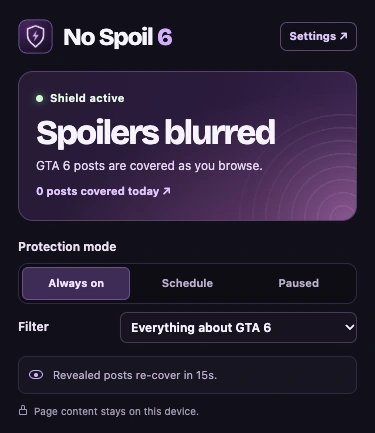
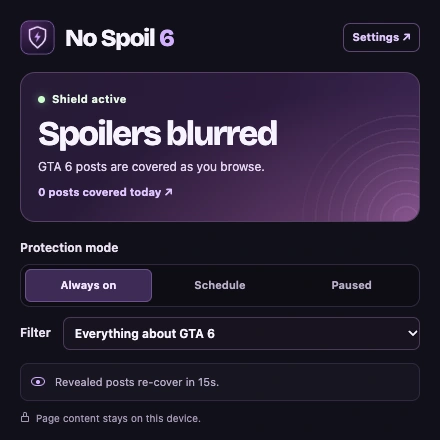
Fix narrow browser toolbar popup

diff --git a/extension/popup/popup.css b/extension/popup/popup.css
@@ -19,12 +19,17 @@
   --line: #30283e;
   --surface: #181522;
   --accent: #d2afff;
+  --popup-width: 440px;
   font: 13px/1.5 Inter, system-ui, sans-serif;
 }
 * { box-sizing: border-box; }
 [hidden] { display: none !important; }
-body { margin: 0; width: min(375px, 100vw); background: var(--background); color: var(--foreground); }
-main { padding: 19px 18px 14px; }
+/* The desktop toolbar sets its viewport from the document's intrinsic width. */
+body { margin: 0; width: var(--popup-width); background: var(--background); color: var(--foreground); }
+@media (hover: none) and (pointer: coarse) {
+  body { width: min(var(--popup-width), 100%); }
+}
+main { padding: 20px 20px 15px; }
 button, input { font: inherit; }
 button { cursor: pointer; }
 button:focus-visible, input:focus-visible, .modes input:focus-visible + span {
@@ -32,9 +37,10 @@ button:focus-visible, input:focus-visible, .modes input:focus-visible + span {
   outline-offset: 2px;
 }
 .brand { display: flex; align-items: center; gap: 10px; margin-bottom: 17px; }
-.brand h1 { margin: 0; font: 760 24px/1 "Bricolage Grotesque", system-ui, sans-serif; letter-spacing: -.045em; }
+.brand img { flex: none; }
+.brand h1 { margin: 0; font: 760 24px/1 "Bricolage Grotesque", system-ui, sans-serif; letter-spacing: -.045em; white-space: nowrap; }
 .brand h1 span { color: var(--accent); }
-.settings-link { margin-inline-start: auto; border: 1px solid #5d4576; border-radius: 7px; padding: 5px 8px; }
+.settings-link { flex: none; margin-inline-start: auto; border: 1px solid #5d4576; border-radius: 7px; padding: 5px 8px; white-space: nowrap; }
 .settings-link, .activity-link { color: #e0c6ff; font-size: 11px; font-weight: 680; text-decoration: none; }
 .settings-link:hover, .activity-link:hover { text-decoration: underline; }
 .activity-link { display: inline-block; margin-top: 8px; }
@@ -66,20 +72,20 @@ button:focus-visible, input:focus-visible, .modes input:focus-visible + span {
   font: 720 34px/.98 "Bricolage Grotesque", system-ui, sans-serif;
   letter-spacing: -.055em;
 }
-.status-card p { margin: 8px 0 0; max-width: 247px; color: #e4d5ef; font-size: 12px; line-height: 1.5; }
+.status-card p { margin: 8px 0 0; color: #e4d5ef; font-size: 12px; line-height: 1.5; }
 
 form { margin-top: 17px; }
 fieldset { min-width: 0; border: 0; padding: 0; margin: 0; }
 legend { padding: 0; margin-bottom: 7px; color: #eae1f2; font-size: 12px; font-weight: 630; }
-.modes { display: grid; grid-template-columns: repeat(3, 1fr); gap: 3px; border: 1px solid var(--line); background: #0e0d15; border-radius: 10px; padding: 3px; }
+.modes { display: grid; grid-template-columns: repeat(3, 1fr); gap: 5px; border: 1px solid var(--line); background: #0e0d15; border-radius: 10px; padding: 4px; }
 .modes label { position: relative; min-width: 0; }
 .modes input { position: absolute; top: 50%; left: 50%; width: 1px; height: 1px; opacity: 0; }
-.modes span { display: block; padding: 8px 2px; border-radius: 6px; color: var(--muted); text-align: center; font-size: 11px; font-weight: 650; cursor: pointer; }
+.modes span { display: block; padding: 8px 2px; border-radius: 6px; color: var(--muted); text-align: center; font-size: 11px; font-weight: 650; white-space: nowrap; cursor: pointer; }
 .modes input:not(:checked) + span:hover { background: #21192c; color: var(--foreground); }
 .modes input:checked + span { background: #3e2b56; color: #f3e5ff; box-shadow: inset 0 0 0 1px #b188e067; }
 fieldset:disabled .modes { opacity: .55; }
-.filter-choice { display: flex; justify-content: space-between; align-items: center; gap: 7px; margin-top: 8px; color: #eae1f2; font-size: 12px; font-weight: 630; }
-.filter-choice select { width: min(77%, 237px); font: inherit; color: var(--foreground); background: #181321; border: 1px solid #493857; border-radius: 7px; padding: 6px; }
+.filter-choice { display: flex; align-items: center; gap: 12px; margin-top: 10px; color: #eae1f2; font-size: 12px; font-weight: 630; }
+.filter-choice select { flex: 1; min-width: 0; font: inherit; color: var(--foreground); background: #181321; border: 1px solid #493857; border-radius: 7px; padding: 7px; }
 
 .schedule { margin-top: 12px; padding: 13px; border: 1px solid var(--line); border-radius: 11px; background: var(--surface); }
 .schedule-heading { margin-bottom: 11px; }

diff --git a/website/index.html b/website/index.html
@@ -107,7 +107,7 @@
       <div class="content-background">
         <section class="wrap features section" id="features" aria-labelledby="features-title">
           <div class="feature-art">
-            <img src="assets/extension-popup.webp" alt="No Spoil 6 toolbar popup showing the shield on and the Always on, Schedule, and Paused controls." width="375" height="433" loading="lazy">
+            <img src="assets/extension-popup.webp" alt="No Spoil 6 toolbar popup showing the shield on and the Always on, Schedule, and Paused controls." width="440" height="440" loading="lazy">
           </div>
           <div class="feature-copy">
             <h2 id="features-title">Your feed.<br> Your rules.</h2>

diff --git a/release/chrome/SUBMISSION.md b/release/chrome/SUBMISSION.md
@@ -3,7 +3,7 @@
 ## First submission
 
 1. Sign in to the [Chrome Web Store Developer Dashboard](https://chrome.google.com/webstore/devconsole) using the Google account you registered. Enable 2-Step Verification and complete the contact and verification fields shown on the **Account** page. Set the trader declaration accurately if the dashboard asks for it.
-2. Upload `dist/no-spoil-6-chromium.zip` (v1.1.1). If you already have the v1.1.0 draft open, use its **Package** tab to upload the new ZIP. For a first upload, go to **Items → Add new item**. The updated package includes the padded store icon.
+2. Upload the current `dist/no-spoil-6-chromium.zip`. If you already have a draft open, use its **Package** tab to upload the new ZIP. For a first upload, go to **Items → Add new item**. The updated package includes the padded store icon.
 3. Complete **Store listing** using the field-by-field instructions below.
 4. On **Privacy**, enter the single purpose and permission explanations below. Select the option for bundled code with no remote code. Disclose website content processing and the optional storage of preferences in the browser sync service. Complete the dashboard’s data-use certifications based on these behaviors. Host the `website/` directory on HTTPS and enter the resulting public `/privacy/` URL. Check that it opens without sign-in.
 5. On **Distribution**, select **Public** for a discoverable listing, choose the regions you want, and select the appropriate pricing option. The current build has no payment flow, so it can be submitted as free.
